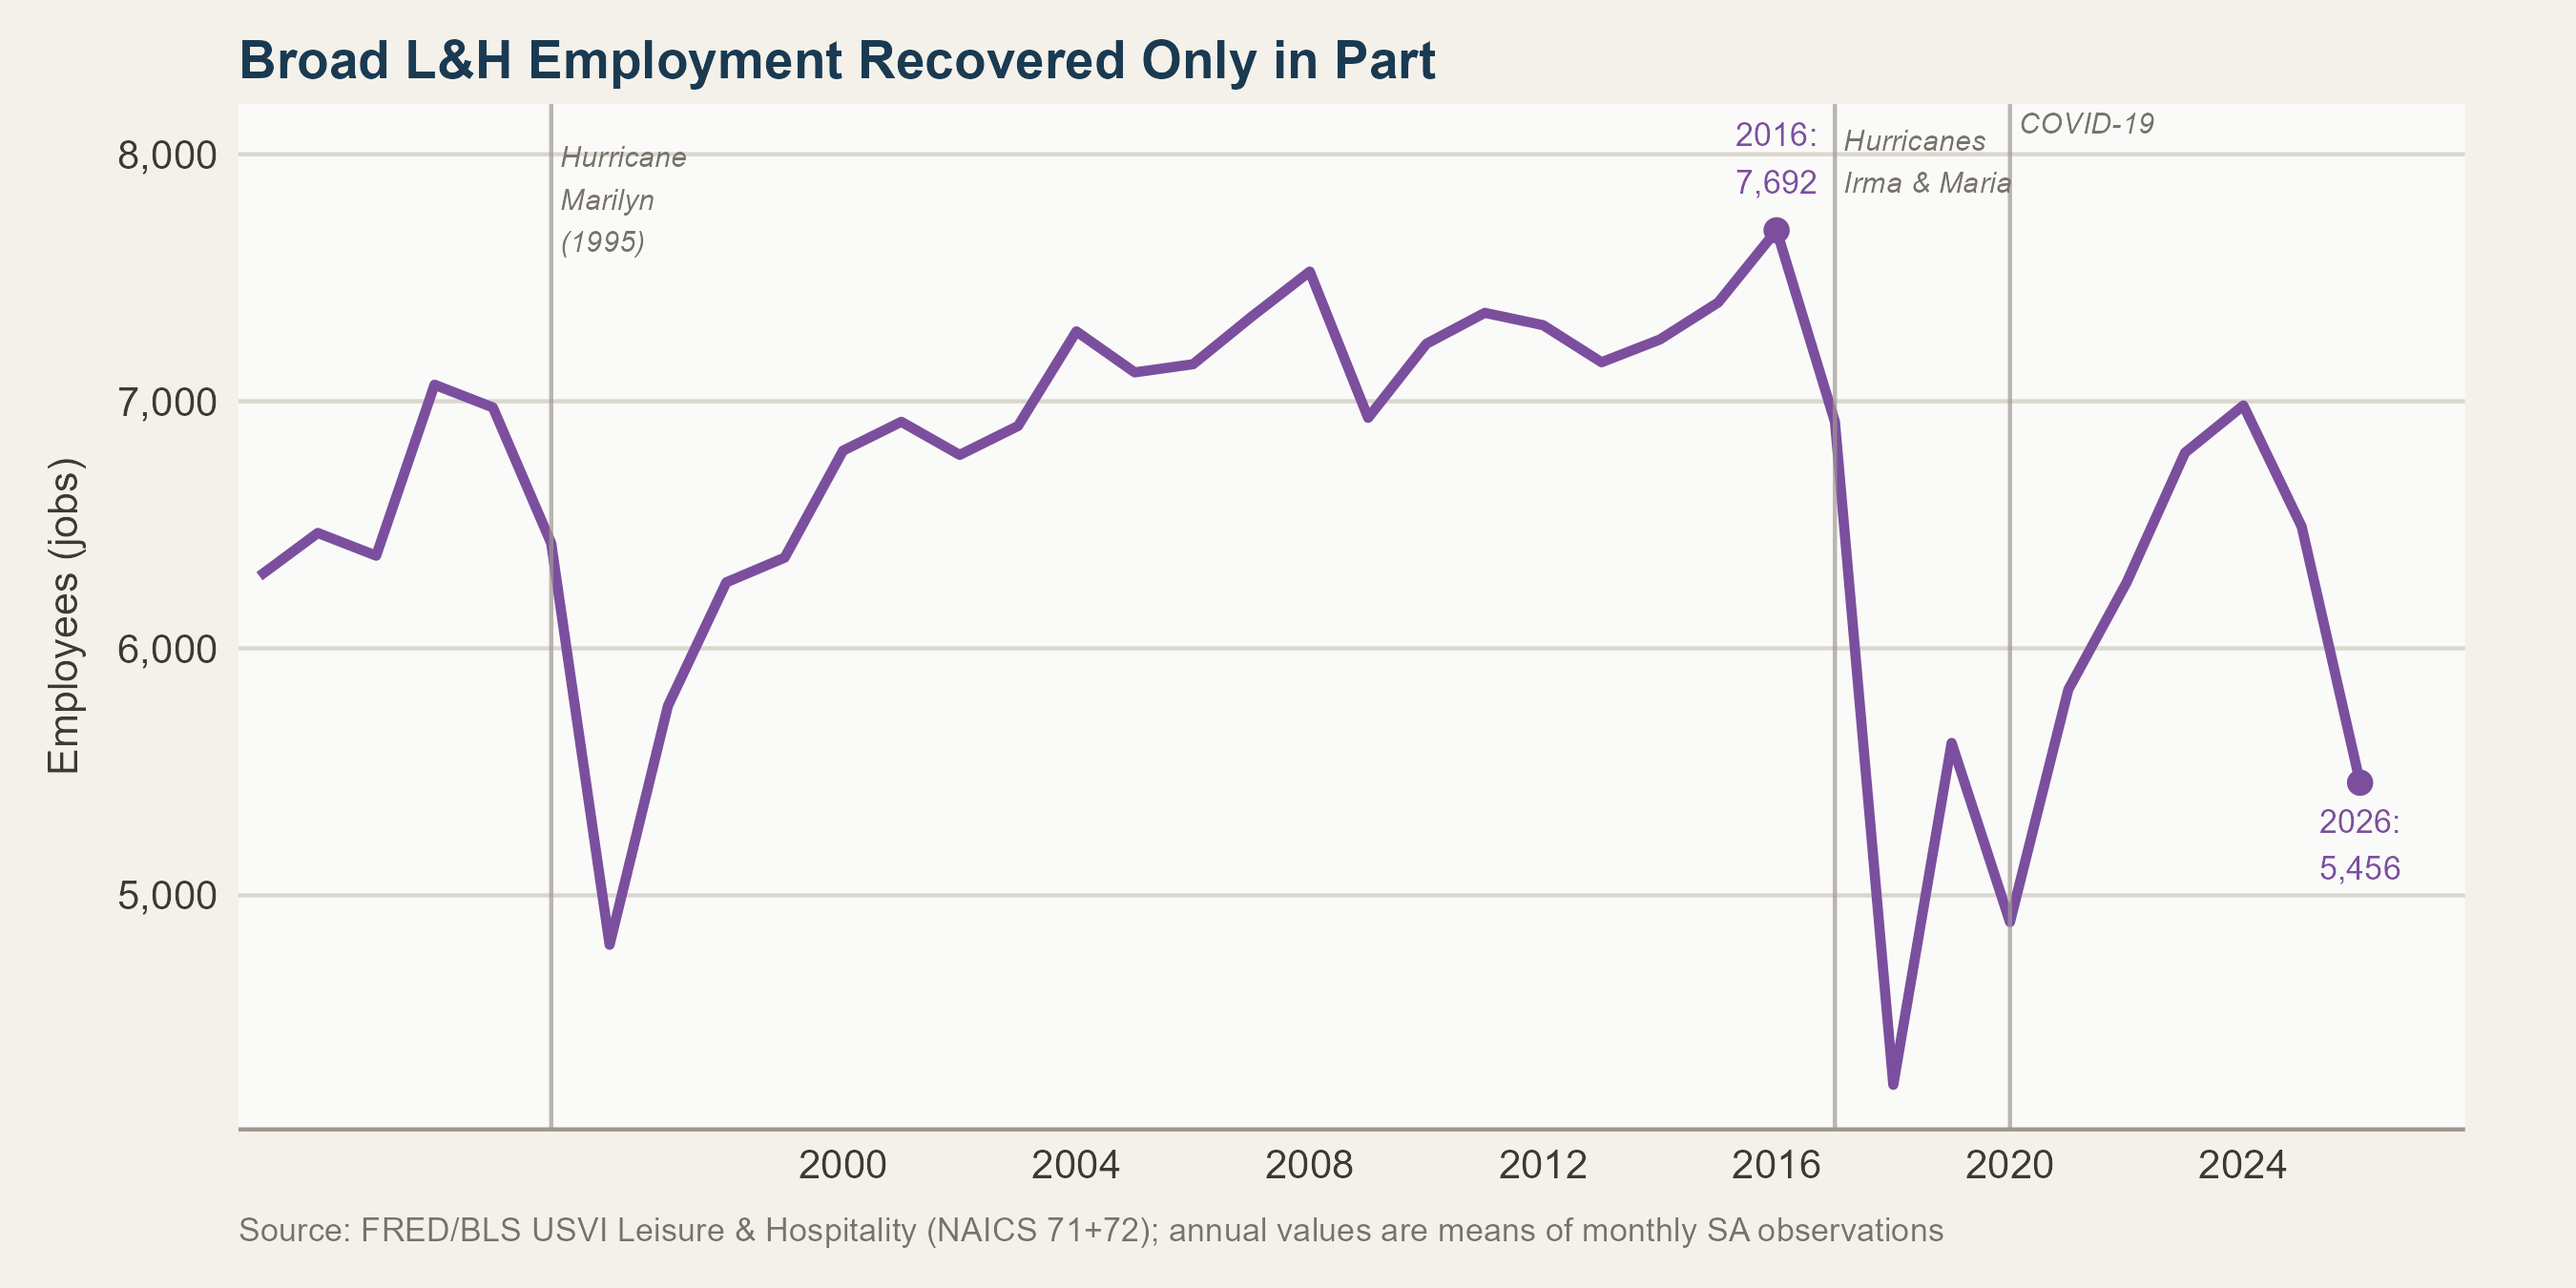
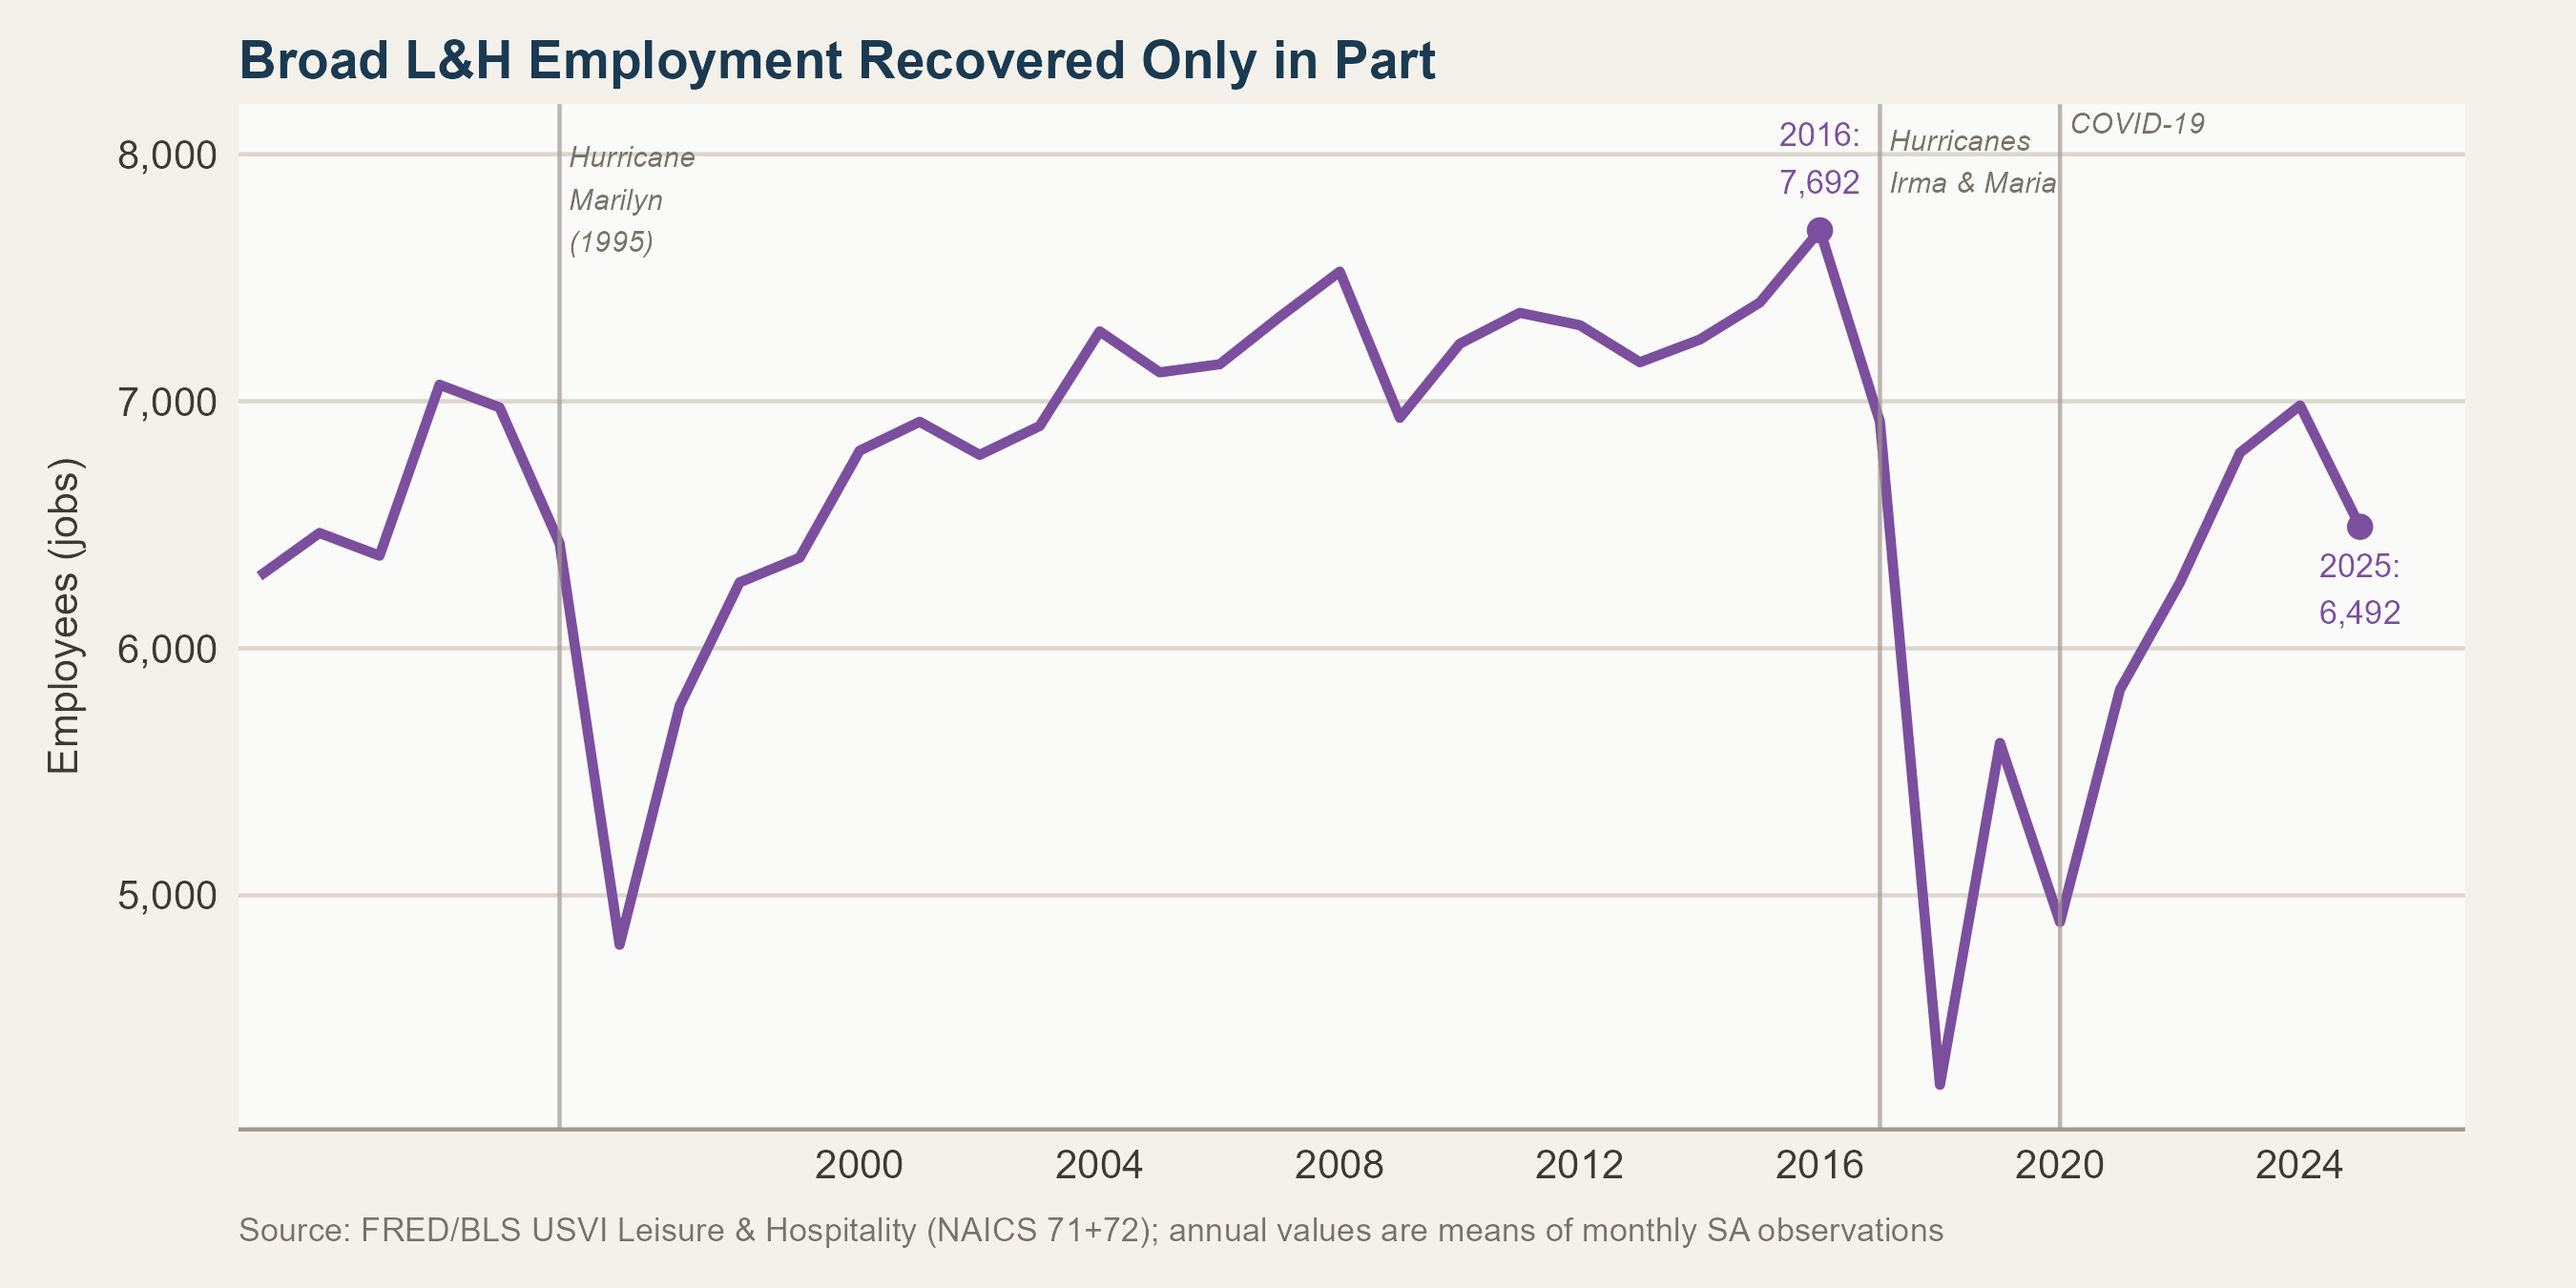
fix: filter fig06 to <=2025

diff --git a/docs/reports/analysis.html b/docs/reports/analysis.html
@@ -1083,7 +1083,7 @@ Figure&nbsp;11: Each indicator is independently indexed to its 2016 level (2016 
 <p>Where do the indicators converge, where do they diverge, and what is defensible to conclude?</p>
 </div>
 <div class="section-intro">
-<p>The five preceding sections establish independent evidence for different dimensions of the tourism economy. This section brings the principal indicators together on a common index scale to show where they converge and where they diverge. No single recovery number exists; the aggregate pattern is the finding.</p>
+<p>The preceding sections establish independent evidence for different dimensions of the tourism economy. This section brings the principal indicators together on a common index scale to show where they converge and where they diverge. No single recovery number exists; the aggregate pattern is the finding.</p>
 </div>
 <div id="fig-analysis-recovery" class="quarto-float quarto-figure quarto-figure-center anchored">
 <figure class="quarto-float quarto-float-fig figure">
